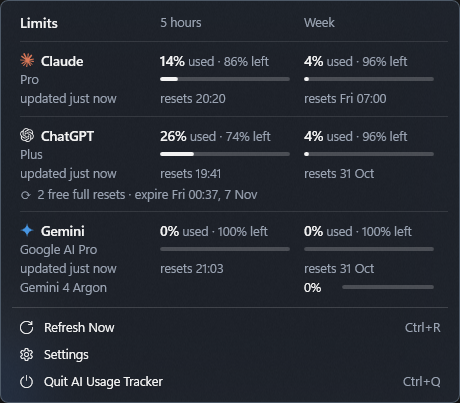
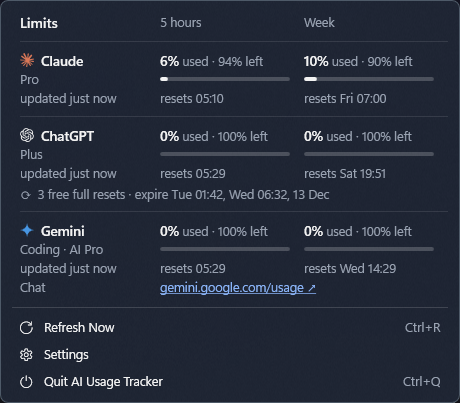
version 1.2.0: Claude sign-in message, Gemini coding and chat parts
- Claude: a signed-out `claude -p /usage` prints only an "Estimated cost"
  summary, which showed as "No data". It and "/login" token errors now
  show "Not signed in". Fixture captured from the real signed-out output.
- Gemini: the card is split into Coding (Antigravity 5-hour/weekly quota)
  and Chat, a link to gemini.google.com/usage, since no CLI reports the
  Gemini app's chat limits.
- Bump to 1.2.0, update README and screenshot.

diff --git a/src/Usage.cs b/src/Usage.cs
@@ -14,8 +14,8 @@ public record Limit(double Used, DateTimeOffset? ResetsAt)
     public bool Passed => ResetsAt < DateTimeOffset.Now;
 }
 
-/// An extra line under a card, e.g. Claude's per-model week or Gemini 4 Argon.
-public record Row(string Label, Limit? Five, Limit? Week);
+/// An extra line under a card, e.g. Claude's per-model week or Gemini 4 Argon. With a Url it is a link instead of numbers.
+public record Row(string Label, Limit? Five, Limit? Week, string? Url = null);
 
 /// Everything the tray and the flyout show for one AI.
 public record Card(string Name, string Plan, Limit? Five, Limit? Week, List<Row> Extra,
@@ -138,8 +138,11 @@ public static class Usage
         return (output.ToString(), err);
     }
 
+    // Signed-out Claude Code gives no error: its /usage falls back to the API-cost view ("Estimated cost: …").
+    // Its token errors end in "Please run /login".
     static readonly string[] SignedOut = ["not logged in", "not signed in", "please log in", "please sign in", "login required",
-        "unauthenticated", "unauthorized", "no credentials", "not authenticated", "authentication required"];
+        "unauthenticated", "unauthorized", "no credentials", "not authenticated", "authentication required",
+        "/login", "estimated cost"];
 
     /// One fixed line explaining a failed fetch. The CLI's own text is only matched, never shown.
     public static string Problem(string cli, string output) =>
@@ -232,7 +235,11 @@ public static class Usage
         return left > 0 ? $"◎  {left:0.##} AI credits left" : null;
     }
 
-    /// `agy -p /quota` JSON. "Gemini Models" fills the columns. Other Gemini groups (e.g. Argon) become extra rows.
+    /// No CLI reports the Gemini app's chat limits, so the Gemini card links to Google's own usage page.
+    public static readonly Row GeminiChat = new("Chat", null, null, "https://gemini.google.com/usage");
+
+    /// `agy -p /quota` JSON: Antigravity's coding quota. "Gemini Models" fills the columns. Other Gemini groups
+    /// (e.g. Argon) become extra rows, then the Chat link.
     public static Card ParseGemini(string output)
     {
         var groups = JsonNode.Parse(output)?["command"]?["data"]?["groups"] as JsonArray
@@ -255,6 +262,7 @@ public static class Usage
         var main = rows.Find(r => r.Label == "Gemini Models") ?? rows.FirstOrDefault();
         if (main?.Five == null && main?.Week == null) throw new FormatException("no Gemini quota");
         rows.Remove(main!);
-        return new Card("Gemini", "Google AI Pro", main!.Five, main.Week, rows);
+        rows.Add(GeminiChat);
+        return new Card("Gemini", "Coding · AI Pro", main!.Five, main.Week, rows);
     }
 }

diff --git a/tests/ParseTests.cs b/tests/ParseTests.cs
@@ -31,6 +31,12 @@ public class ParseTests
             {"id":"gemini-argon-wtu-weekly","window":"weekly","remaining_fraction":1,"reset_time":"2026-10-29T12:07:32Z"}]}]}}}
         """;
 
+    // `claude -p /usage` while signed out, captured on 2026-11-26: no error, just the API-cost view.
+    const string ClaudeSignedOutOut = """
+        {"type":"result","subtype":"success","is_error":false,"num_turns":0,"total_cost_usd":0,"local_command":"usage",
+         "result":"Estimated cost:        $0.0000\nTotal duration (API):  0s\nTotal duration (wall): 0s\nTotal code changes:    0 lines added, 0 lines removed\nUsage:                 0 input, 0 output, 0 cache read, 0 cache write"}
+        """;
+
     // `agy -p /credits`, captured on 2026-10-24.
     const string GeminiCreditsOut = """
         {"conversation_id":"","status":"SUCCESS","response":"Remaining credits\t0\nUpgrade\thttps://antigravity.google/g1-upgrade\n",
@@ -95,16 +101,18 @@ public class ParseTests
     }
 
     [Fact]
-    public void Gemini_reads_main_group_and_other_gemini_groups_only()
+    public void Gemini_reads_coding_group_other_gemini_groups_and_links_chat()
     {
         var c = Usage.ParseGemini(GeminiOut);
+        Assert.Equal("Coding · AI Pro", c.Plan);
         Assert.Equal(0, c.Five!.Used);
         Assert.Equal(78, c.Week!.Used, 3);
         Assert.Equal(DateTimeOffset.Parse("2026-10-29T12:07:32Z"), c.Week.ResetsAt);
-        var argon = Assert.Single(c.Extra);
-        Assert.Equal("Gemini 4 Argon", argon.Label);
+        Assert.Equal(["Gemini 4 Argon", "Chat"], c.Extra.Select(r => r.Label));
+        var argon = c.Extra[0];
         Assert.Null(argon.Five);
         Assert.Equal(0, argon.Week!.Used);
+        Assert.Equal(new Row("Chat", null, null, "https://gemini.google.com/usage"), c.Extra[1]);
     }
 
     [Theory]
@@ -125,6 +133,14 @@ public class ParseTests
     {
         Assert.StartsWith("Not signed in", Usage.Problem("codex", "Error: Not logged in. Run codex login"));
         Assert.StartsWith("No data", Usage.Problem("agy", "segfault"));
+    }
+
+    [Fact]
+    public void Problem_tells_claude_sign_in_errors()
+    {
+        Assert.Throws<FormatException>(() => Usage.ParseClaude(ClaudeSignedOutOut, Now));
+        Assert.StartsWith("Not signed in", Usage.Problem("claude", ClaudeSignedOutOut));
+        Assert.StartsWith("Not signed in", Usage.Problem("claude", "OAuth token has expired · Please run /login"));
     }
 
     [Theory]

diff --git a/src/Flyout.xaml.cs b/src/Flyout.xaml.cs
@@ -1,3 +1,4 @@
+using System.Diagnostics;
 using System.Runtime.InteropServices;
 using System.Windows;
 using System.Windows.Controls;
@@ -135,7 +136,9 @@ public partial class Flyout : Window
         numbers.Children.Add(Line(name, Used(c.Five), Used(c.Week)));
         numbers.Children.Add(Line(Text(c.Plan, Grey), Bar(c.Five), Bar(c.Week)));
         numbers.Children.Add(Line(Text(Updated(c), Grey), Text(Resets(c.Five), Grey), Text(Resets(c.Week), Grey)));
-        foreach (var row in c.Extra) numbers.Children.Add(Line(Text(row.Label, Grey), Mini(row.Five), Mini(row.Week)));
+        foreach (var row in c.Extra)
+            numbers.Children.Add(row.Url == null ? Line(Text(row.Label, Grey), Mini(row.Five), Mini(row.Week))
+                                                 : Line(Text(row.Label, Grey), Link(row.Url), new Border()));
         if (c.Note != null) numbers.Children.Add(Wrapped(Text(c.Note, Grey)));   // one line per kind of credit
 
         var block = new StackPanel();
@@ -181,6 +184,16 @@ public partial class Flyout : Window
         pct.Width = 38;
         cell.Children.Add(pct);
         cell.Children.Add(new ProgressBar { Value = l.Used, Foreground = Level(l.Used), VerticalAlignment = VerticalAlignment.Center });
+        return cell;
+    }
+
+    /// "gemini.google.com/usage ↗" across both columns. It opens the browser, which takes focus and so hides the panel.
+    static UIElement Link(string url)
+    {
+        var link = new Hyperlink(new Run(url.Replace("https://", "") + " ↗")) { Foreground = Hex("#8AB4F8") };
+        link.Click += (_, _) => Process.Start(new ProcessStartInfo(url) { UseShellExecute = true });
+        var cell = new TextBlock(link) { VerticalAlignment = VerticalAlignment.Center };
+        Grid.SetColumnSpan(cell, 2);
         return cell;
     }
 

diff --git a/src/App.cs b/src/App.cs
@@ -20,7 +20,7 @@ static class App
     static readonly string[] Brands = ["#D97757", "#10A37F", "#4796E3"];
 
     public static Card[] Cards = [new("Claude", "Pro", null, null, []), new("ChatGPT", "Plus", null, null, []),
-                                  new("Gemini", "Google AI Pro", null, null, [])];
+                                  new("Gemini", "Coding · AI Pro", null, null, [Usage.GeminiChat])];
     public static bool Busy { get; private set; }
     static readonly Forms.NotifyIcon[] Icons = new Forms.NotifyIcon[3];
     static readonly string ConfigFile = Path.Combine(

diff --git a/README.md b/README.md
@@ -11,12 +11,13 @@ A small Windows 11 tray app, in the spirit of RunCat and [limitbar](https://gith
 - **Click (left or right) any icon:** a translucent panel with every limit (how much is used and how much is left), its bar, and when it resets. Starting the app again from the Start Menu also opens the panel.
 - **Footer:** Refresh Now · Settings · Quit.
 - **Settings:** Open at Login, how often to refresh (5–60 min), the panel's transparency, and which window the tray numbers show (Highest, 5 hours or Week). Changes apply at once.
+- **Gemini, two parts:** *Coding* is your Antigravity quota (the numbers and the tray icon). *Chat* is a link to [gemini.google.com/usage](https://gemini.google.com/usage), because no command-line tool reports the Gemini app's chat limits.
 - **Credits:** any credit above 0 shows under its card: ChatGPT's free full resets (each with its expiry date) and paid credit balance, and Gemini's AI credits. Claude's CLI has no read-only credits command, and the other balances come without an expiry date.
 - **Keys:** Esc closes the panel; Ctrl+R refreshes; Ctrl+Q quits.
 
 ## Install
 
-1. Run `dist\AIUsageTracker-Setup-1.1.0.exe`. It installs for your user only, with no admin prompt, to `%LOCALAPPDATA%\Programs\AI Usage Tracker`.
+1. Run `dist\AIUsageTracker-Setup-1.2.0.exe`. It installs for your user only, with no admin prompt, to `%LOCALAPPDATA%\Programs\AI Usage Tracker`.
    The installer is not code-signed, so SmartScreen may warn: click **More info › Run anyway**.
 2. Windows hides new tray icons at first. Open **Settings › Personalization › Taskbar › Other system tray icons** and turn on the three *AI Usage Tracker* entries, or drag them out of the `^` overflow onto the taskbar.
 
@@ -30,11 +31,11 @@ Like limitbar, the app **asks each AI's own command-line tool** for its usage. I
 |---|---|---|
 | Claude | `claude -p /usage` (Claude Code) | Your Claude plan's 5-hour session and weekly limits. These are shared by claude.ai and Claude Code. |
 | ChatGPT | `codex app-server` → `account/rateLimits/read` (Codex CLI) | Your ChatGPT plan's **Codex** 5-hour and weekly limits, plus free full resets and paid credits. No tool exposes the chat-message caps. |
-| Gemini | `agy -p /quota` and `agy -p /credits` (Google Antigravity CLI) | Your Google AI Pro **Antigravity** quota (Gemini models: 5-hour and weekly), plus Gemini 4 Argon and your remaining AI credits. It does not cover the Gemini app's chat limits. |
+| Gemini | `agy -p /quota` and `agy -p /credits` (Google Antigravity CLI) | **Coding:** your Google AI Pro **Antigravity** quota (Gemini models: 5-hour and weekly), plus Gemini 4 Argon and your remaining AI credits. **Chat:** no CLI reports the Gemini app's limits, so the card links to gemini.google.com/usage, which opens in your browser. |
 
 All three CLIs must be installed and signed in. On this PC they live in WSL (distro `Ubuntu-20.04`), so the app runs them through `wsl.exe`.
 
-- If a card says **"Not signed in — run `…`"**, open that CLI in WSL and sign in.
+- If a card says **"Not signed in — run `…`"**, open that CLI in WSL and sign in. For Claude, run `claude` and then `/login` (signed out, Claude's `/usage` shows only an API-cost summary).
 - **"No data"** means the CLI is missing, timed out, or changed its output. The last good numbers stay visible, dimmed.
 
 ## Settings
@@ -52,7 +53,7 @@ The Settings page saves to `%LOCALAPPDATA%\AIUsageTracker\config.json`, which is
 You need the [.NET 10 SDK](https://dotnet.microsoft.com/download) and Inno Setup 6 (`winget install --id JRSoftware.InnoSetup -e --scope user`). Then:
 
 ```powershell
-.\build.ps1 -Version 1.1.0     # tests → dotnet publish → dist\AIUsageTracker-Setup-1.1.0.exe
+.\build.ps1 -Version 1.2.0     # tests → dotnet publish → dist\AIUsageTracker-Setup-1.2.0.exe
 ```
 
 The parser tests also run on Linux/WSL: `dotnet test tests`.
